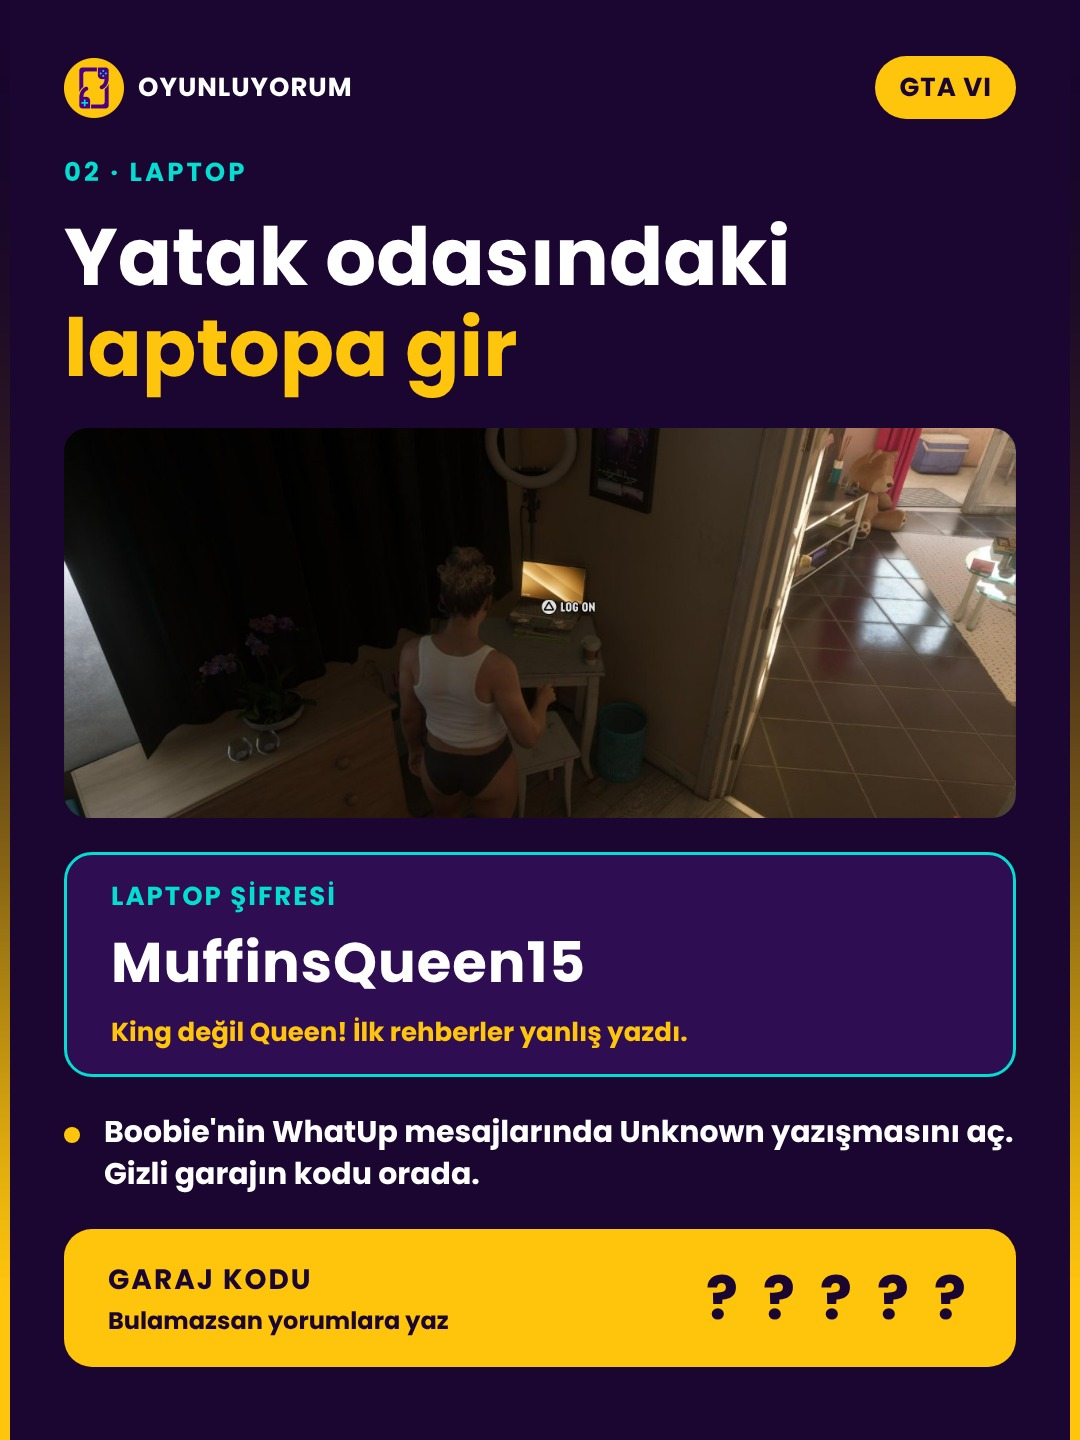
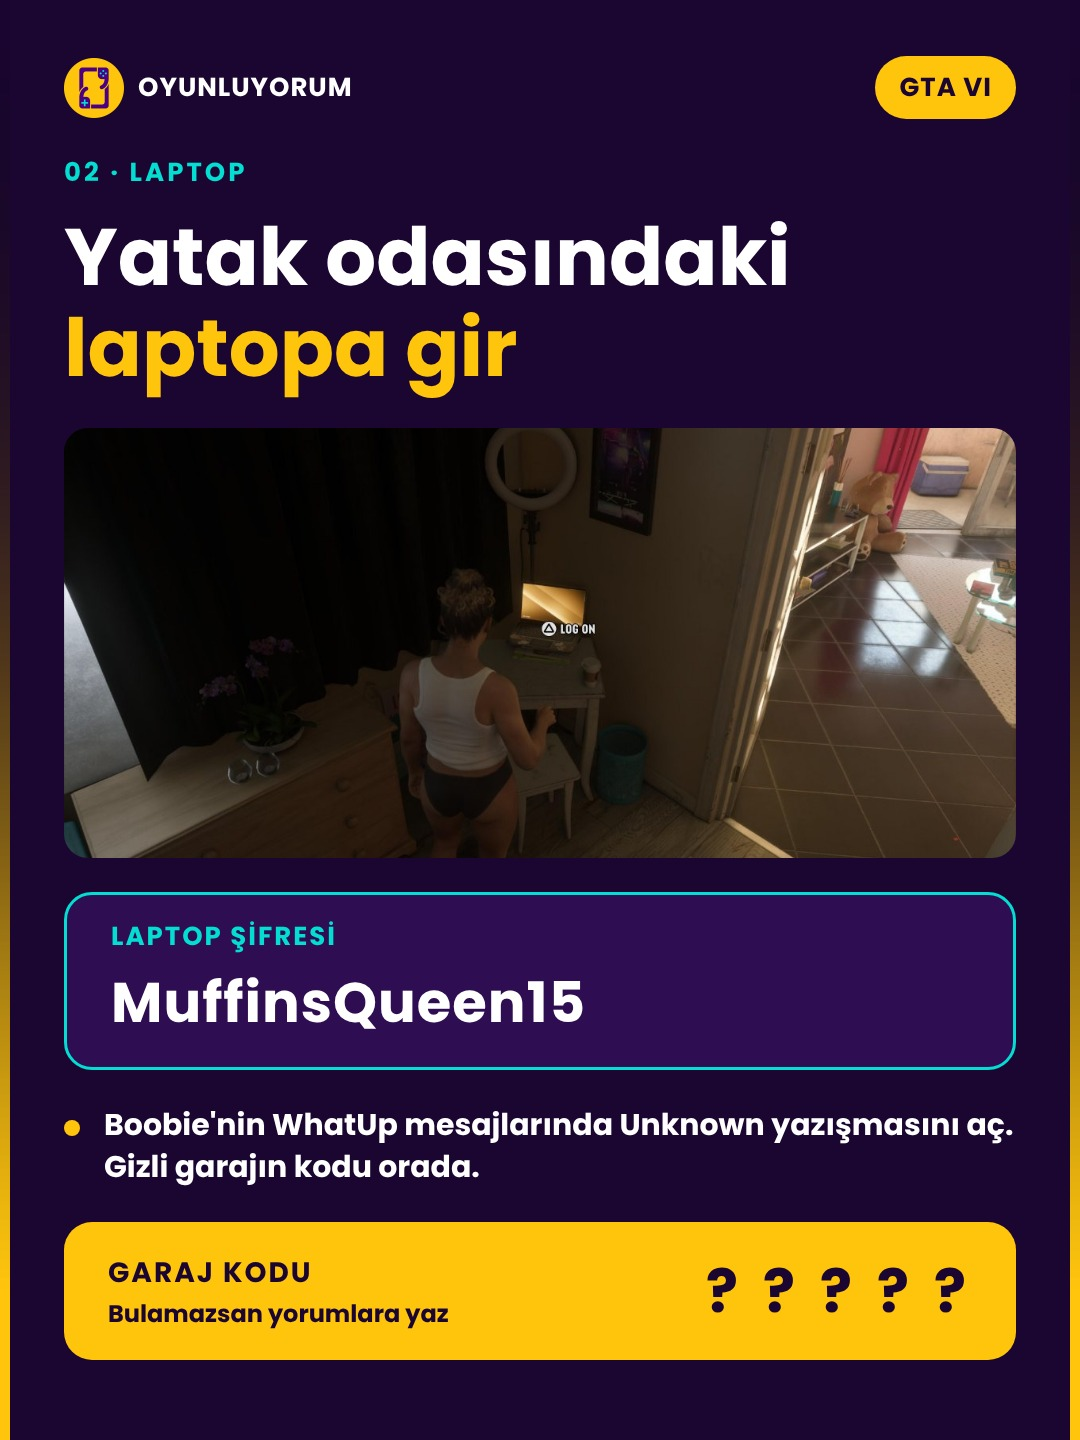
Growler: King/Queen notu kaldırıldı, 3. bölüm uyarısı eklendi
Claude-Session: https://claude.ai/code/session_01Cfy9VgEXWVL5ta7MT2PpLs

Changed region(s): [[0.0611, 0.2812, 0.9472, 0.9688], [0.55, 0.3125, 0.6111, 0.375], [0.4278, 0.3125, 0.4889, 0.3438]]

diff --git a/posts/2026-11-21-gta6-growler/aciklama.md b/posts/2026-11-21-gta6-growler/aciklama.md
@@ -9,7 +9,9 @@ Not: Garaj kodu karuselde bilerek verilmedi, yorumlarda etkileşim için.
 
 GTA 6'da bedava spor araba ve garaj kapmak ister misin? 🚗💗 3. bölümde taşındığın Boobie'nin dairesindeki laptopun şifresini çözünce Vanessa'nın Growler'ı ve La Perle'deki gizli garaj senin oluyor.
 
-Laptop şifresi ve garajın yeri karuselde 👇 (Dikkat: King değil Queen!) Garaj kodunu Boobie'nin mesajlarında bul, bulamazsan yorumlara yaz. Normalde 29.450 dolarlık kayıt ücretini de ödemiyorsun.
+Laptop şifresi ve garajın yeri karuselde 👇 Garaj kodunu Boobie'nin mesajlarında bul, bulamazsan yorumlara yaz. Normalde 29.450 dolarlık kayıt ücretini de ödemiyorsun.
+
+⚠ 3. bölüm bitmeden yap, 4. bölümde başka bir eve taşınıyorsun.
 
 Kaydet, 3. bölümde lazım olacak. GTA 6 oynayan arkadaşına da gönder 📩
 
